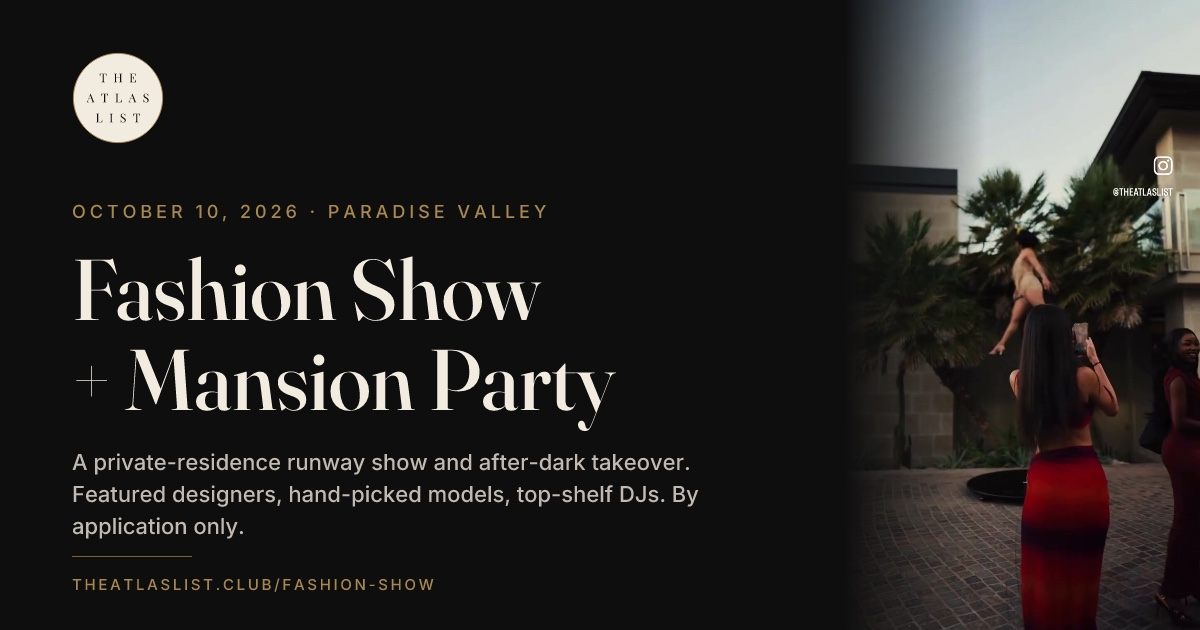
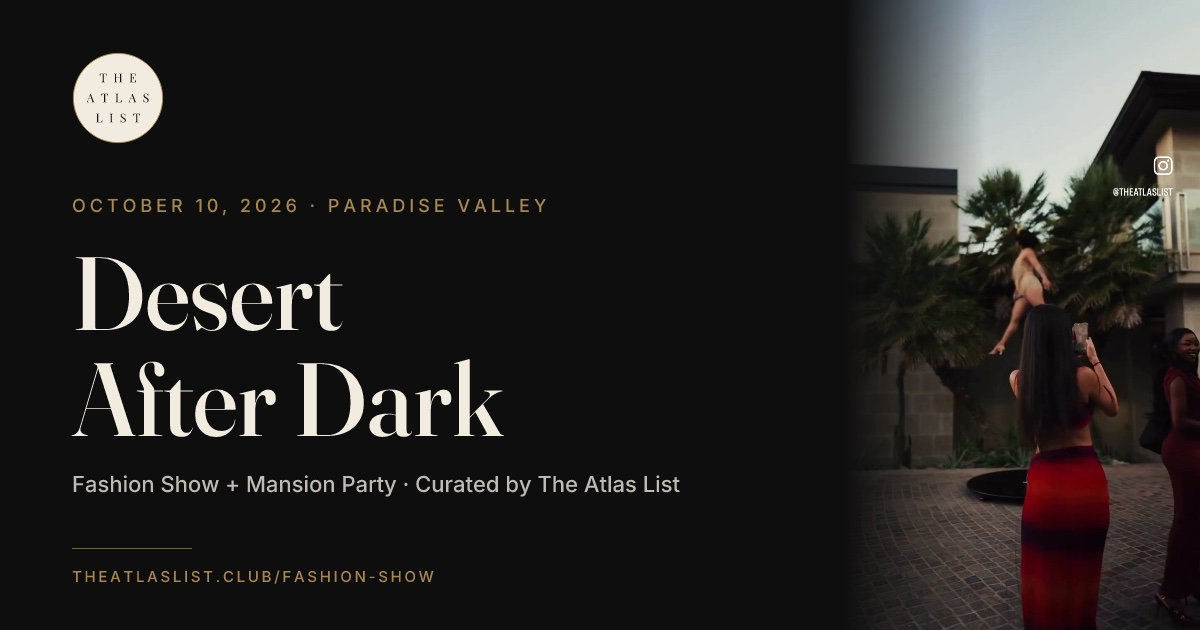
Name the October 10 event: Desert After Dark
- Hero: "Desert After Dark" is now the H1; the toned-down tagline moves
  to the top of the subhead. Pitch and apply copy name the event.
- Page metadata: title "Desert After Dark · October 10", og/twitter
  title + description, image alt.
- Share card re-composed: "Desert / After Dark" headline with
  "Fashion Show + Mansion Party · Curated by The Atlas List" beneath.
- Nav: "Desert After Dark" on sm+, "Oct 10" kept on phones for width.
- Notification email page label: "Desert After Dark (Oct 10)".

URL stays /fashion-show so existing links keep working.

diff --git a/src/content/fashion-show.ts b/src/content/fashion-show.ts
@@ -1,16 +1,16 @@
 export const fashionShow = {
   hero: {
     eyebrow: "October 10, 2026 · Paradise Valley",
-    headline: "One night. One mansion. The fashion moment Scottsdale has been waiting for.",
+    headline: "Desert After Dark",
     subhead:
-      "A private-residence runway show and after-dark takeover, curated by The Atlas List. Featured designers, hand-picked models, top-shelf DJs, and a guest list built one name at a time.",
+      "One night. One mansion. The fashion moment Scottsdale has been waiting for — a private-residence runway show and after-dark takeover, curated by The Atlas List. Featured designers, hand-picked models, top-shelf DJs, and a guest list built one name at a time.",
     cta: "Apply for Ticket Allocation",
   },
   pitch: {
     eyebrow: "The Event",
     headline: "Not a nightclub. Not a pop-up. A once-a-year cultural moment.",
     body: [
-      "October 10th, inside a private Paradise Valley estate, The Atlas List is producing what will be — hands down — the number-one fashion show and mansion party the greater Scottsdale area has ever hosted.",
+      "October 10th, inside a private Paradise Valley estate, The Atlas List presents Desert After Dark — what will be, hands down, the number-one fashion show and mansion party the greater Scottsdale area has ever hosted.",
       "A full production runway show inside a residence you can't walk into any other night of the year. The designers you'd fly to Los Angeles or Miami to see. The DJs you'd wait in line an hour for. And the guest list is intentionally short, intentionally beautiful, and closed to anyone who has to ask twice.",
       "If you're in the room, it's because someone decided you belong there.",
     ],
@@ -99,6 +99,6 @@ export const fashionShow = {
     eyebrow: "Apply",
     headline: "Request your ticket allocation.",
     subhead:
-      "Tickets are allocated by application, not by open sale. Tell us about you below. If you're approved, we'll follow up with tier options (General, VIP), pricing, and RSVP instructions.",
+      "Tickets to Desert After Dark are allocated by application, not by open sale. Tell us about you below. If you're approved, we'll follow up with tier options (General, VIP), pricing, and RSVP instructions.",
   },
 } as const;

diff --git a/src/app/fashion-show/page.tsx b/src/app/fashion-show/page.tsx
@@ -6,9 +6,9 @@ import { InstagramLink } from "@/components/InstagramLink";
 import { Avatar } from "@/components/Avatar";
 import { fashionShow } from "@/content/fashion-show";
 
-const shareTitle = "October 10 · Fashion Show + Mansion Party";
+const shareTitle = "Desert After Dark · October 10";
 const shareDescription =
-  "A private-residence runway show and after-dark takeover in Paradise Valley. Featured designers, hand-picked models, top-shelf DJs — allocated by application.";
+  "The Atlas List presents Desert After Dark — a private-residence fashion show and mansion party in Paradise Valley, October 10, 2026. Featured designers, hand-picked models, top-shelf DJs — allocated by application.";
 
 // Dedicated share card: the root layout's openGraph block is otherwise
 // inherited wholesale, which made links to this page preview as the home
@@ -28,7 +28,7 @@ export const metadata: Metadata = {
         url: "/images/og-fashion-show.jpg",
         width: 1200,
         height: 630,
-        alt: "The Atlas List — Fashion Show + Mansion Party, October 10, 2026, Paradise Valley",
+        alt: "Desert After Dark — The Atlas List fashion show + mansion party, October 10, 2026, Paradise Valley",
       },
     ],
   },

diff --git a/src/components/Nav.tsx b/src/components/Nav.tsx
@@ -45,8 +45,9 @@ export function Nav() {
   const showHome = pathname !== "/";
   // Show About link everywhere except the about page itself
   const showAbout = pathname !== "/about";
-  // Fashion Show link surfaces on the two marketing pages so the Oct 10 event
-  // is discoverable from Home and About without cluttering the utility pages.
+  // Desert After Dark (Oct 10) link surfaces on the two marketing pages so the
+  // event is discoverable from Home and About without cluttering the utility
+  // pages. Full name on sm+, the short date on phones where width is tight.
   const showFashionShow = pathname === "/" || pathname === "/about";
 
   return (
@@ -83,7 +84,8 @@ export function Nav() {
               href="/fashion-show"
               className={`text-xs uppercase tracking-widest transition-colors duration-300 ${linkClass}`}
             >
-              Oct 10
+              <span className="sm:hidden">Oct 10</span>
+              <span className="hidden sm:inline">Desert After Dark</span>
             </Link>
           )}
           <Link

diff --git a/src/lib/notify.ts b/src/lib/notify.ts
@@ -23,7 +23,7 @@ const DEDUPE_WINDOW_MS = 60 * 60 * 1000;
 const PAGE_LABEL: Record<string, string> = {
   home: "Home page",
   about: "About page",
-  "fashion-show": "Oct 10 Fashion Show",
+  "fashion-show": "Desert After Dark (Oct 10)",
 };
 
 // Best-effort duplicate suppression, per server instance: a double-submit from
